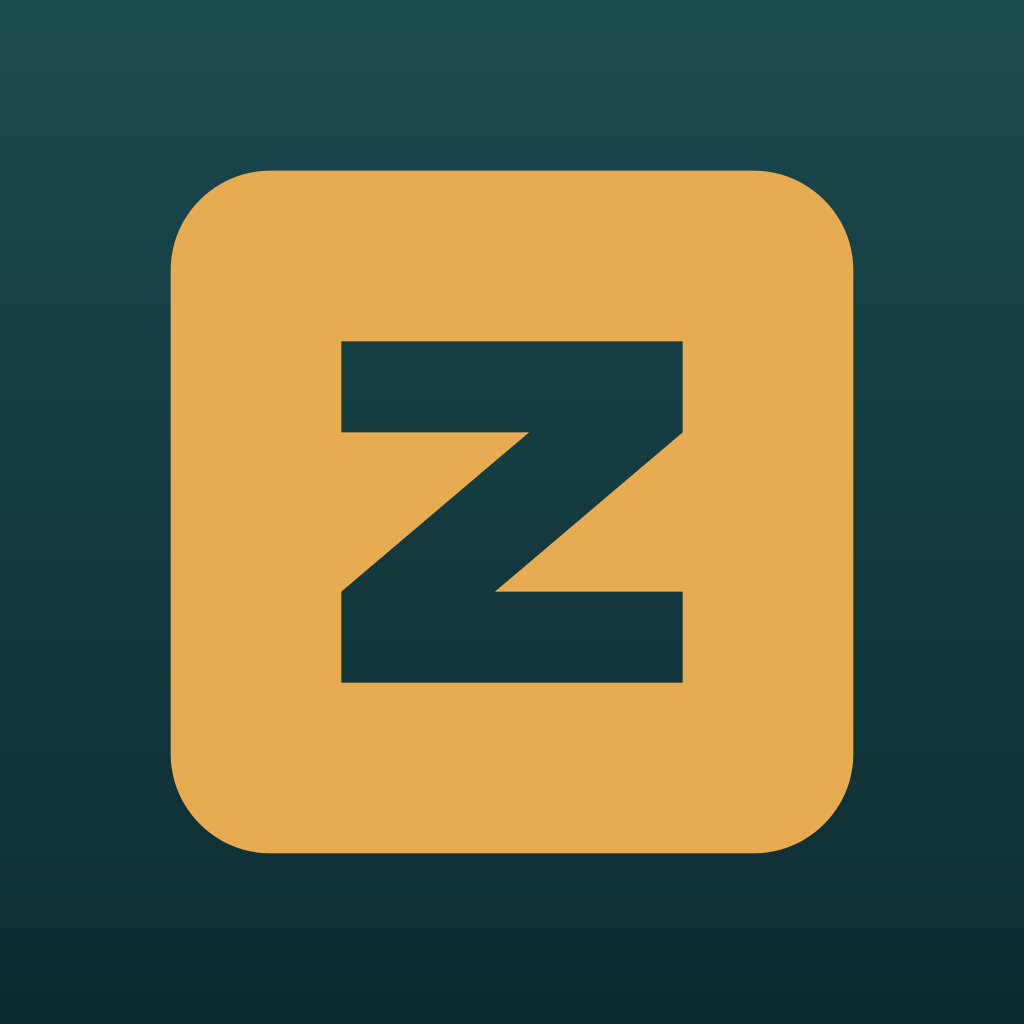
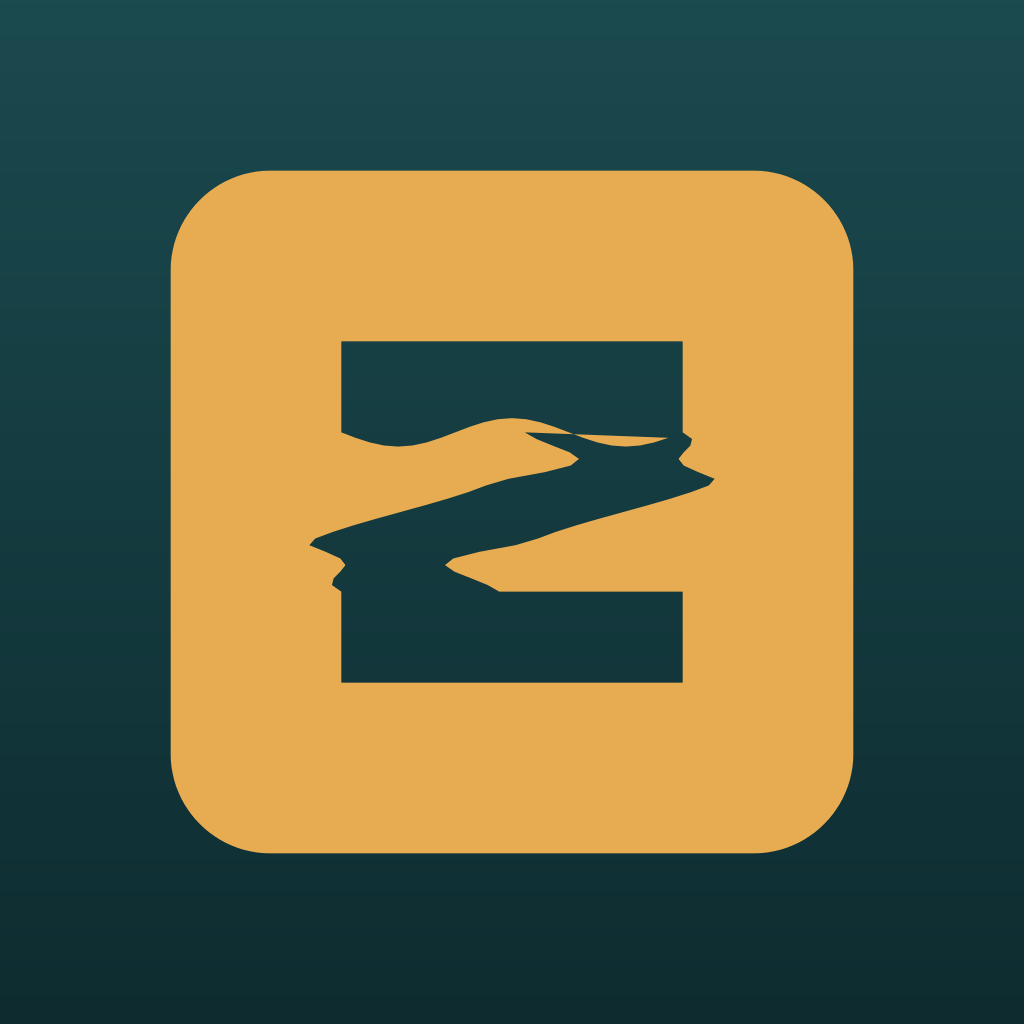
la onda no cabia detras de la Z, asi que la Z es la onda
Tres intentos rechazados y los tres eran lo mismo: algo detras del hueco. A 48
px el hueco de la Z son tres tiras de dos pixeles, asi que lo que se pone detras
se ve en fragmentos y nunca como una forma. La diagonal ondula, y no hay nada
que mirar por una rendija.

El contorno sigue siendo uno cerrado y el desplazamiento es horizontal, que es
lo que mantiene verticales las juntas con las barras; sin(PI k t) con k entero
vale cero en los extremos, asi que las juntas quedan donde estaban.

Y el ancho se corrige con la pendiente, ACOTADO: sin corregir el trazo adelgaza
de 3.49 unidades a 1.61 donde la onda tumba la diagonal -2.1 px a 48 px de icono
contra los 4.7 de las barras-, y corregirlo del todo engorda la diagonal hasta
ser una mancha. Con el tope en 1.45 el punto mas fino sube a 2.34 y en la cresta
queda el saliente.

Y la onda recorre la letra entera: mas onda en la diagonal sola tiene techo -a
tres ciclos o amplitud 3 deja de ser una Z- asi que los filos de dentro de las
barras ondulan tambien, a 0.5 contra 2.2. Los de fuera rectos: son la silueta.

La diagonal pasa a ocupar dos celdas por fila en la rejilla de 4x4 y marcaCelda
se actualiza con el numero medido. Y el banco tenia la Z escrita otra vez en
Python: esa copia saco cinco FALLA contra un icono que estaba bien.

Regla nueva, la diagonal no es recta, medida contra una referencia que genera la
app (ZATI_Z_RECTA=1): 11.9 a 13.4% del hueco en las cuatro densidades. Rota a
proposito con amplitud cero, 0.0%.
[…]

Changed region(s): [[0.3438, 0.4062, 0.6875, 0.5312], [0.3125, 0.4688, 0.4688, 0.5938], [0.4375, 0.5312, 0.5312, 0.5938]]

diff --git a/Source/Iconos.h b/Source/Iconos.h
@@ -1147,22 +1147,166 @@ namespace Iconos
     //  dibujo ES un pad. Se corta con `setUsingNonZeroWinding(false)`, o sea
     //  que la Z es un HUECO y no un trazo encima - asi la marca funciona sobre
     //  cualquiera de las cuatro carcasas sin elegir un segundo color.
+    //  Y LA DIAGONAL ES UNA ONDA, que es lo que dice que esto es un SAMPLER.
+    //
+    //  Se llego aqui por descarte y con tres intentos medidos por delante, y
+    //  los tres eran la misma idea -algo DETRAS del hueco de la Z, visto por
+    //  el- : la envolvente de un sonido de fabrica rellena la rendija entera y
+    //  sale una mancha (a 256 px sigue siendo una mancha, la silueta solo
+    //  aparece a 1024); nueve barras con hueco se leen, y se leen MAL, porque
+    //  barras separadas son un ESPECTRO y dicen frecuencias; y un trazo
+    //  continuo por detras tampoco.
+    //
+    //  El techo no lo movia el dibujo: a 48 px -lo que mide un icono en el
+    //  cajon de aplicaciones- el hueco de la Z son tres tiras de DOS pixeles,
+    //  asi que lo que se pone detras se ve en fragmentos y nunca como una
+    //  forma. Asi que la onda deja de estar detras de la letra y pasa a SER la
+    //  letra: no hay nada que mirar por una rendija.
+    //
+    //  Las dos aristas de la diagonal eran rectas y paralelas -(18,9.2) a
+    //  (11.4,14.8) y (12.6,9.2) a (6,14.8), separadas 5.4 en horizontal- y
+    //  pasan a ser dos polilineas onduladas. El contorno sigue siendo UNO
+    //  cerrado: no hay subtrazados que se solapen ni reglas de relleno que
+    //  negociar.
+    //  AMPLITUD 1.8 de 24, medida y no elegida a ojo. Barrida a 1.0, 1.35,
+    //  1.8 y 2.2 sobre los tres tamanos a los que la marca se dibuja de verdad
+    //  -26 px la fila de modulos, 40 la cabecera, 48 el lanzador-: a 1.0 la
+    //  onda esta en el codigo y no en la pantalla, y a 2.2 el trazo se lee
+    //  desigual a 26 px. A 1.8 se ve a 48 y sigue siendo una Z a 26.
+    //
+    //  Lo que CUESTA, medido y no corregido: las dos aristas van separadas en
+    //  horizontal, asi que el grosor perpendicular es 5.4 por el seno del
+    //  angulo con la horizontal, y donde la onda tumba la diagonal ese angulo
+    //  baja. De 3.49 unidades en la recta a 1.61 en el punto mas fino. Se
+    //  probo corregirlo -ensanchar en horizontal lo justo para que el
+    //  perpendicular no se mueva- y sale PEOR: el factor se dispara donde la
+    //  curva se tumba y la diagonal engorda hasta ser una mancha. Deshecho,
+    //  con su numero, como los otros tres arreglos de esta casa que salieron
+    //  peor.
+    static constexpr float kOndaAmp    = 2.2f;
+    static constexpr int   kOndaCiclos = 2;       // sube y baja una vez
+    static constexpr int   kOndaPasos  = 24;      // resolucion de la polilinea
+    static constexpr float kOndaTope   = 1.45f;   // el tope del ensanchado
+    //  El rizo de los filos de dentro de las dos barras. Mucho menor que el de
+    //  la diagonal: una barra de 3.2 de alto con un rizo de 1 se parte.
+    static constexpr float kRizoAmp    = 0.5f;
+    static constexpr int   kRizoCiclos = 3;
+
+    //  Solo del banco: ver `ondaDeLaZ`. No hay ningun camino desde la interfaz
+    //  que llegue aqui.
+    inline bool rectaParaElBanco = false;
+
+    //  El desplazamiento de la diagonal en la fraccion `t` de su recorrido.
+    //
+    //  HORIZONTAL y no perpendicular, que es lo que mantiene limpias las dos
+    //  juntas: la diagonal se encuentra con las barras a lo largo de rectas
+    //  verticales, y desplazar perpendicularmente las torceria.
+    //
+    //  Y `sin (PI * k * t)` con k ENTERO vale cero en los dos extremos, asi que
+    //  t=0 sigue dando 18 y 12.6 y t=1 sigue dando 11.4 y 6: las juntas con la
+    //  barra de arriba y la de abajo quedan exactamente donde estaban.
+    inline float ondaDeLaZ (float t) noexcept
+    {
+        //  RECTA cuando el banco lo pide, que es la unica forma de que la
+        //  regla «la diagonal no es recta» mida y no repita la constante del
+        //  dibujo. Es el mismo fallo que esta prueba ya cometio dos veces.
+        if (rectaParaElBanco) return 0.0f;
+
+        return kOndaAmp * std::sin (juce::MathConstants<float>::pi
+                                    * (float) kOndaCiclos * t);
+    }
+
+    //  La pendiente de la onda, que es lo que dice cuanto se ha tumbado la
+    //  diagonal en ese punto. Ver `medioEn`.
+    inline float pendienteDeLaZ (float t) noexcept
+    {
+        if (rectaParaElBanco) return 0.0f;
+        const float pi = juce::MathConstants<float>::pi;
+        return kOndaAmp * pi * (float) kOndaCiclos
+                        * std::cos (pi * (float) kOndaCiclos * t);
+    }
+
     inline juce::Path marca()
     {
         juce::Path p;
         p.addRoundedRectangle (0.0f, 0.0f, 24.0f, 24.0f, 3.5f);
 
+        //  Los dos extremos de la LINEA CENTRAL de la diagonal, que son los
+        //  puntos medios de las dos aristas de siempre.
+        const float xa = 15.3f, ya = 9.2f;      // arriba, entre 18 y 12.6
+        const float xb = 8.7f,  yb = 14.8f;     // abajo,  entre 11.4 y 6
+        //  EL ANCHO SE CORRIGE CON LA PENDIENTE, Y ACOTADO.
+        //
+        //  Las dos aristas van separadas en HORIZONTAL, asi que el grosor que
+        //  se ve -el perpendicular- es 5.4 por el seno del angulo con la
+        //  horizontal: donde la onda tumba la diagonal, el trazo adelgaza. Sin
+        //  corregir, medido: de 3.49 unidades en la recta a 1.61 en el punto
+        //  mas fino, o sea menos de la mitad, y a 48 px de icono eso son 2.1 px
+        //  contra los 4.7 de las barras.
+        //
+        //  Corregirlo del todo -ensanchar en horizontal lo justo para que el
+        //  perpendicular no se mueva- tambien sale mal: el factor se dispara
+        //  donde la curva se tumba y la diagonal engorda hasta ser una mancha.
+        //  Se probo y se vio.
+        //
+        //  Acotado a 1.45 da las dos cosas: el trazo no adelgaza -el punto mas
+        //  fino sube de 1.61 a 2.34- y en la cresta queda el saliente que hace
+        //  que la diagonal parezca una onda y no una raya torcida, que es el
+        //  detalle que se pidio.
+        const float dxRecta = xb - xa, dyRecta = yb - ya;
+        const float baseHip = std::sqrt (dxRecta * dxRecta + dyRecta * dyRecta);
+        auto medioEn = [&] (float t)
+        {
+            const float dx = dxRecta + pendienteDeLaZ (t);
+            const float f = std::sqrt (dx * dx + dyRecta * dyRecta) / baseHip;
+            return 2.7f * juce::jmin (kOndaTope, f);
+        };
+
+        //  Y LA ONDA RECORRE LA LETRA ENTERA, no solo la diagonal.
+        //
+        //  Cargarle mas onda a la diagonal sola tiene un techo medido: a
+        //  partir de tres ciclos, o de amplitud 3, deja de ser una Z y pasa a
+        //  ser un zigzag. Asi que la onda se reparte - los dos filos de dentro
+        //  de las barras ondulan tambien, con la misma cuenta y a menos
+        //  amplitud. Los filos de FUERA (y=6 y y=18) se quedan rectos: son la
+        //  silueta de la letra, y una silueta ondulada no se lee como una Z a
+        //  26 px.
+        auto rizo = [] (float u)
+        {
+            return kRizoAmp * std::sin (juce::MathConstants<float>::pi
+                                        * (float) kRizoCiclos * u);
+        };
+
         juce::Path z;
         z.startNewSubPath (6.0f, 6.0f);
         z.lineTo (18.0f, 6.0f);
-        z.lineTo (18.0f, 9.2f);
-        z.lineTo (11.4f, 14.8f);
-        z.lineTo (18.0f, 14.8f);
+        z.lineTo (18.0f, ya);
+        //  Bajando por la arista de la derecha.
+        for (int i = 1; i <= kOndaPasos; ++i)
+        {
+            const float t = (float) i / (float) kOndaPasos;
+            z.lineTo (xa + (xb - xa) * t + ondaDeLaZ (t) + medioEn (t),
+                      ya + (yb - ya) * t);
+        }
+        z.lineTo (18.0f, yb);
         z.lineTo (18.0f, 18.0f);
         z.lineTo (6.0f, 18.0f);
-        z.lineTo (6.0f, 14.8f);
-        z.lineTo (12.6f, 9.2f);
-        z.lineTo (6.0f, 9.2f);
+        //  Y el filo de arriba de la barra de ABAJO, de izquierda a derecha
+        //  hasta donde arranca la diagonal.
+        z.lineTo (6.0f, yb + rizo (0.0f));
+        //  Y subiendo por la de la izquierda, que es la misma onda desplazada.
+        for (int i = kOndaPasos - 1; i >= 0; --i)
+        {
+            const float t = (float) i / (float) kOndaPasos;
+            z.lineTo (xa + (xb - xa) * t + ondaDeLaZ (t) - medioEn (t),
+                      ya + (yb - ya) * t);
+        }
+        //  El filo de abajo de la barra de ARRIBA, de derecha a izquierda.
+        for (int i = kOndaPasos - 1; i >= 0; --i)
+        {
+            const float u = (float) i / (float) kOndaPasos;
+            z.lineTo (6.0f + 12.0f * u, ya + rizo (u));
+        }
         z.closeSubPath();
 
         p.addPath (z);
@@ -1310,8 +1454,16 @@ namespace Iconos
     inline bool marcaCelda (int fila, int col) noexcept
     {
         if (fila == 0 || fila == 3) return true;      // las dos barras
-        if (fila == 1) return col == 2;               // la diagonal, arriba
-        if (fila == 2) return col == 1;               // y abajo
+        //  LA DIAGONAL OCUPA DOS CELDAS POR FILA desde que ondula, y esto no
+        //  se escribio a ojo: `StoreArt::desacuerdoMarca` rasteriza el hueco
+        //  de `marca()` sobre esta misma rejilla de 4x4 y con la diagonal
+        //  recta salian `1111 0010 0100 1111` -una celda por fila- y con la
+        //  onda salen `1111 0011 1100 1111`. La tabla dice lo que la Z ES; el
+        //  rasterizado lo mide, y la regla del banco los compara. Sin
+        //  actualizarla, la rejilla dibujaria una Z distinta de la de la
+        //  marca, que es exactamente lo que esa regla existe para cazar.
+        if (fila == 1) return col == 2 || col == 3;   // la diagonal, arriba
+        if (fila == 2) return col == 0 || col == 1;   // y abajo
         return false;
     }
 }

diff --git a/Tests/icono.py b/Tests/icono.py
@@ -67,13 +67,14 @@ def mide (nombre, ok, detalle=""):
     print ("  %-6s %s  %s" % ("OK" if ok else "FALLA", nombre, detalle))
 
 
-def genera (destino=None, estilo=None, mascara=None):
+def genera (destino=None, estilo=None, mascara=None, recta=False):
     casa = tempfile.mkdtemp (prefix="zati-icono-")
     try:
         env = dict (os.environ)
         env.update ({"HOME": casa, "ZATI_ICONO": destino or DEST})
         if estilo  is not None: env["ZATI_ICONO_ESTILO"]  = str (estilo)
         if mascara is not None: env["ZATI_ICONO_MASCARA"] = mascara
+        if recta: env["ZATI_Z_RECTA"] = "1"
         r = subprocess.run ([APP], env=env, capture_output=True, text=True, timeout=300)
     finally:
         shutil.rmtree (casa, ignore_errors=True)
@@ -101,11 +102,18 @@ def pixeles (path, lado):
 
 def v (c):  return (c[0] << 16) | (c[1] << 8) | c[2]
 
-def esZ (f, c):
-    if f == 0 or f == LADO - 1: return True
-    if f == 1: return c == 2
-    if f == 2: return c == 1
-    return False
+#  QUE CELDAS DIBUJAN LA Z, LEIDAS DE LA APP y no escritas aqui otra vez.
+#
+#  Estaban duplicadas -el mismo patron a mano en Python- y eso son dos reglas:
+#  el dia que la diagonal de `Iconos::marca()` paso a ondular, `marcaCelda`
+#  cambio a dos celdas por fila y esta copia se quedo en una, asi que el banco
+#  saco cinco FALLA contra un icono que estaba bien. La app imprime `celdas`
+#  desde la MISMA funcion con la que dibuja la rejilla.
+def celdasDeLaZ (d):
+    s = d.get ("celdas", "")
+    if len (s) != LADO * LADO: sys.exit ("la app no dijo que celdas dibujan la Z")
+    return set ((f, c) for f in range (LADO) for c in range (LADO)
+                if s[f * LADO + c] == "1")
 
 
 # --- se genera --------------------------------------------------------------
@@ -172,7 +180,7 @@ for lado in TAMANOS:
         if ls[i + 1] - ls[i] > salto:
             salto, corte = ls[i + 1] - ls[i], (ls[i] + ls[i + 1]) / 2.0
     leidas = set (k for k, p in celdas.items() if lum (v (p)) > corte)
-    debe   = set ((f, c) for f in range (LADO) for c in range (LADO) if esZ (f, c))
+    debe   = celdasDeLaZ (dr)
 
     sobran = sorted (leidas - debe)
     faltan = sorted (debe - leidas)
@@ -187,7 +195,7 @@ enc, apa = [], []
 for f in range (LADO):
     for c in range (LADO):
         x = int (paso * (1 + c) + paso * 0.5); y = int (paso * (1 + f) + paso * 0.5)
-        (enc if esZ (f, c) else apa).append (v (px[y][x]))
+        (enc if (f, c) in celdasDeLaZ (dr) else apa).append (v (px[y][x]))
 
 cuerpo = v (px[int (paso * 0.5)][int (paso * 0.5)])
 
@@ -413,6 +421,54 @@ for est, nombre in MARCAS:
 
     for f in ([msk] if propio else [ico, msk]):
         if os.path.exists (f): os.remove (f)
+
+# ============================================================================
+#  Y LA DIAGONAL NO ES RECTA, que es lo unico que dice si la onda de la Z esta
+#  en la pantalla o solo en el codigo.
+#
+#  Se mide contra una REFERENCIA que genera la app con la diagonal recta
+#  (`ZATI_Z_RECTA=1`, ver Iconos::rectaParaElBanco) y no deduciendo la forma de
+#  las constantes del dibujo: ese es el fallo que esta misma prueba ya cometio
+#  dos veces -la mascara del lanzador y el hueco de la Z- y que se resume en que
+#  un banco que repite la constante del codigo no prueba el codigo.
+#
+#  Y a los tamanos a los que la marca se dibuja de VERDAD, que no son solo los
+#  del lanzador: la cabecera de la app la pinta a unos 40 px y la fila de
+#  modulos a 26. Una onda que solo existe a 1024 no la ve nadie.
+print()
+recto = tempfile.mktemp (suffix="-recto.png")
+mrec  = tempfile.mktemp (suffix="-recto-m.png")
+mond  = tempfile.mktemp (suffix="-onda-m.png")
+genera (recto, 4, mrec, recta=True)
+onda  = tempfile.mktemp (suffix="-onda.png")
+genera (onda, 4, mond)
+
+#  A LOS CUATRO TAMANOS DEL LANZADOR y no a los de la app.
+#
+#  Medida antes en los tres tamanos a los que la marca se dibuja: 3.4 % a 26 px
+#  -la fila de modulos- y 6.6 % a 40 -la cabecera-. O sea que a esos dos la onda
+#  practicamente no esta, y eso NO es un fallo que arreglar subiendo la
+#  amplitud: a 2.2 el trazo ya se lee desigual a 26 px, que es peor. Es la
+#  escalera de siempre - la onda es una funcion del ICONO, que es donde la marca
+#  se dibuja grande, y en la cabecera queda como un matiz.
+#
+#  Asi que la regla pregunta donde tiene que cumplirse: los cuatro tamanos que
+#  JUCE escribe. El liston sale de la poblacion -10.9 % es el peor de los
+#  cuatro- y se pone por debajo, no por encima.
+MIN_ONDA_Z = 8.0
+for lado in TAMANOS:
+    a = clases (pixeles (mond, lado), lado)
+    b = clases (pixeles (mrec, lado), lado)
+    hueco = sum (1 for y in range (lado) for x in range (lado)
+                 if a[y][x] == 1 or b[y][x] == 1)
+    dif = sum (1 for y in range (lado) for x in range (lado)
+               if (a[y][x] == 1) != (b[y][x] == 1))
+    pc = 100.0 * dif / max (1, hueco)
+    mide ("la diagonal no es recta a %d px" % lado, pc >= MIN_ONDA_Z,
+          "%.1f %% del hueco cambia  (liston %.1f)" % (pc, MIN_ONDA_Z))
+
+for f in (recto, mrec, mond, onda):
+    if os.path.exists (f): os.remove (f)
 
 if os.path.exists (REJ): os.remove (REJ)
 

diff --git a/Source/Main.cpp b/Source/Main.cpp
@@ -220,6 +220,12 @@ public:
                                ? (StoreArt::Estilo) juce::jlimit (0, 8, estv.getIntValue())
                                : StoreArt::kEstiloDeFabrica;
 
+            //  LA DIAGONAL RECTA, para la referencia del banco: la regla
+            //  «la diagonal no es recta» compara el PNG contra este, en vez de
+            //  deducir la forma de las constantes del dibujo. Ver
+            //  Iconos::rectaParaElBanco.
+            Iconos::rectaParaElBanco = (UiAudit::env ("ZATI_Z_RECTA") == "1");
+
             //  Que sonido se ve por el hueco de la Z (solo el estilo 8). Ver
             //  StoreArt::sonidoDeLaMarca.
             if (const auto snd = UiAudit::env ("ZATI_ICONO_SONIDO"); snd.isNotEmpty())
